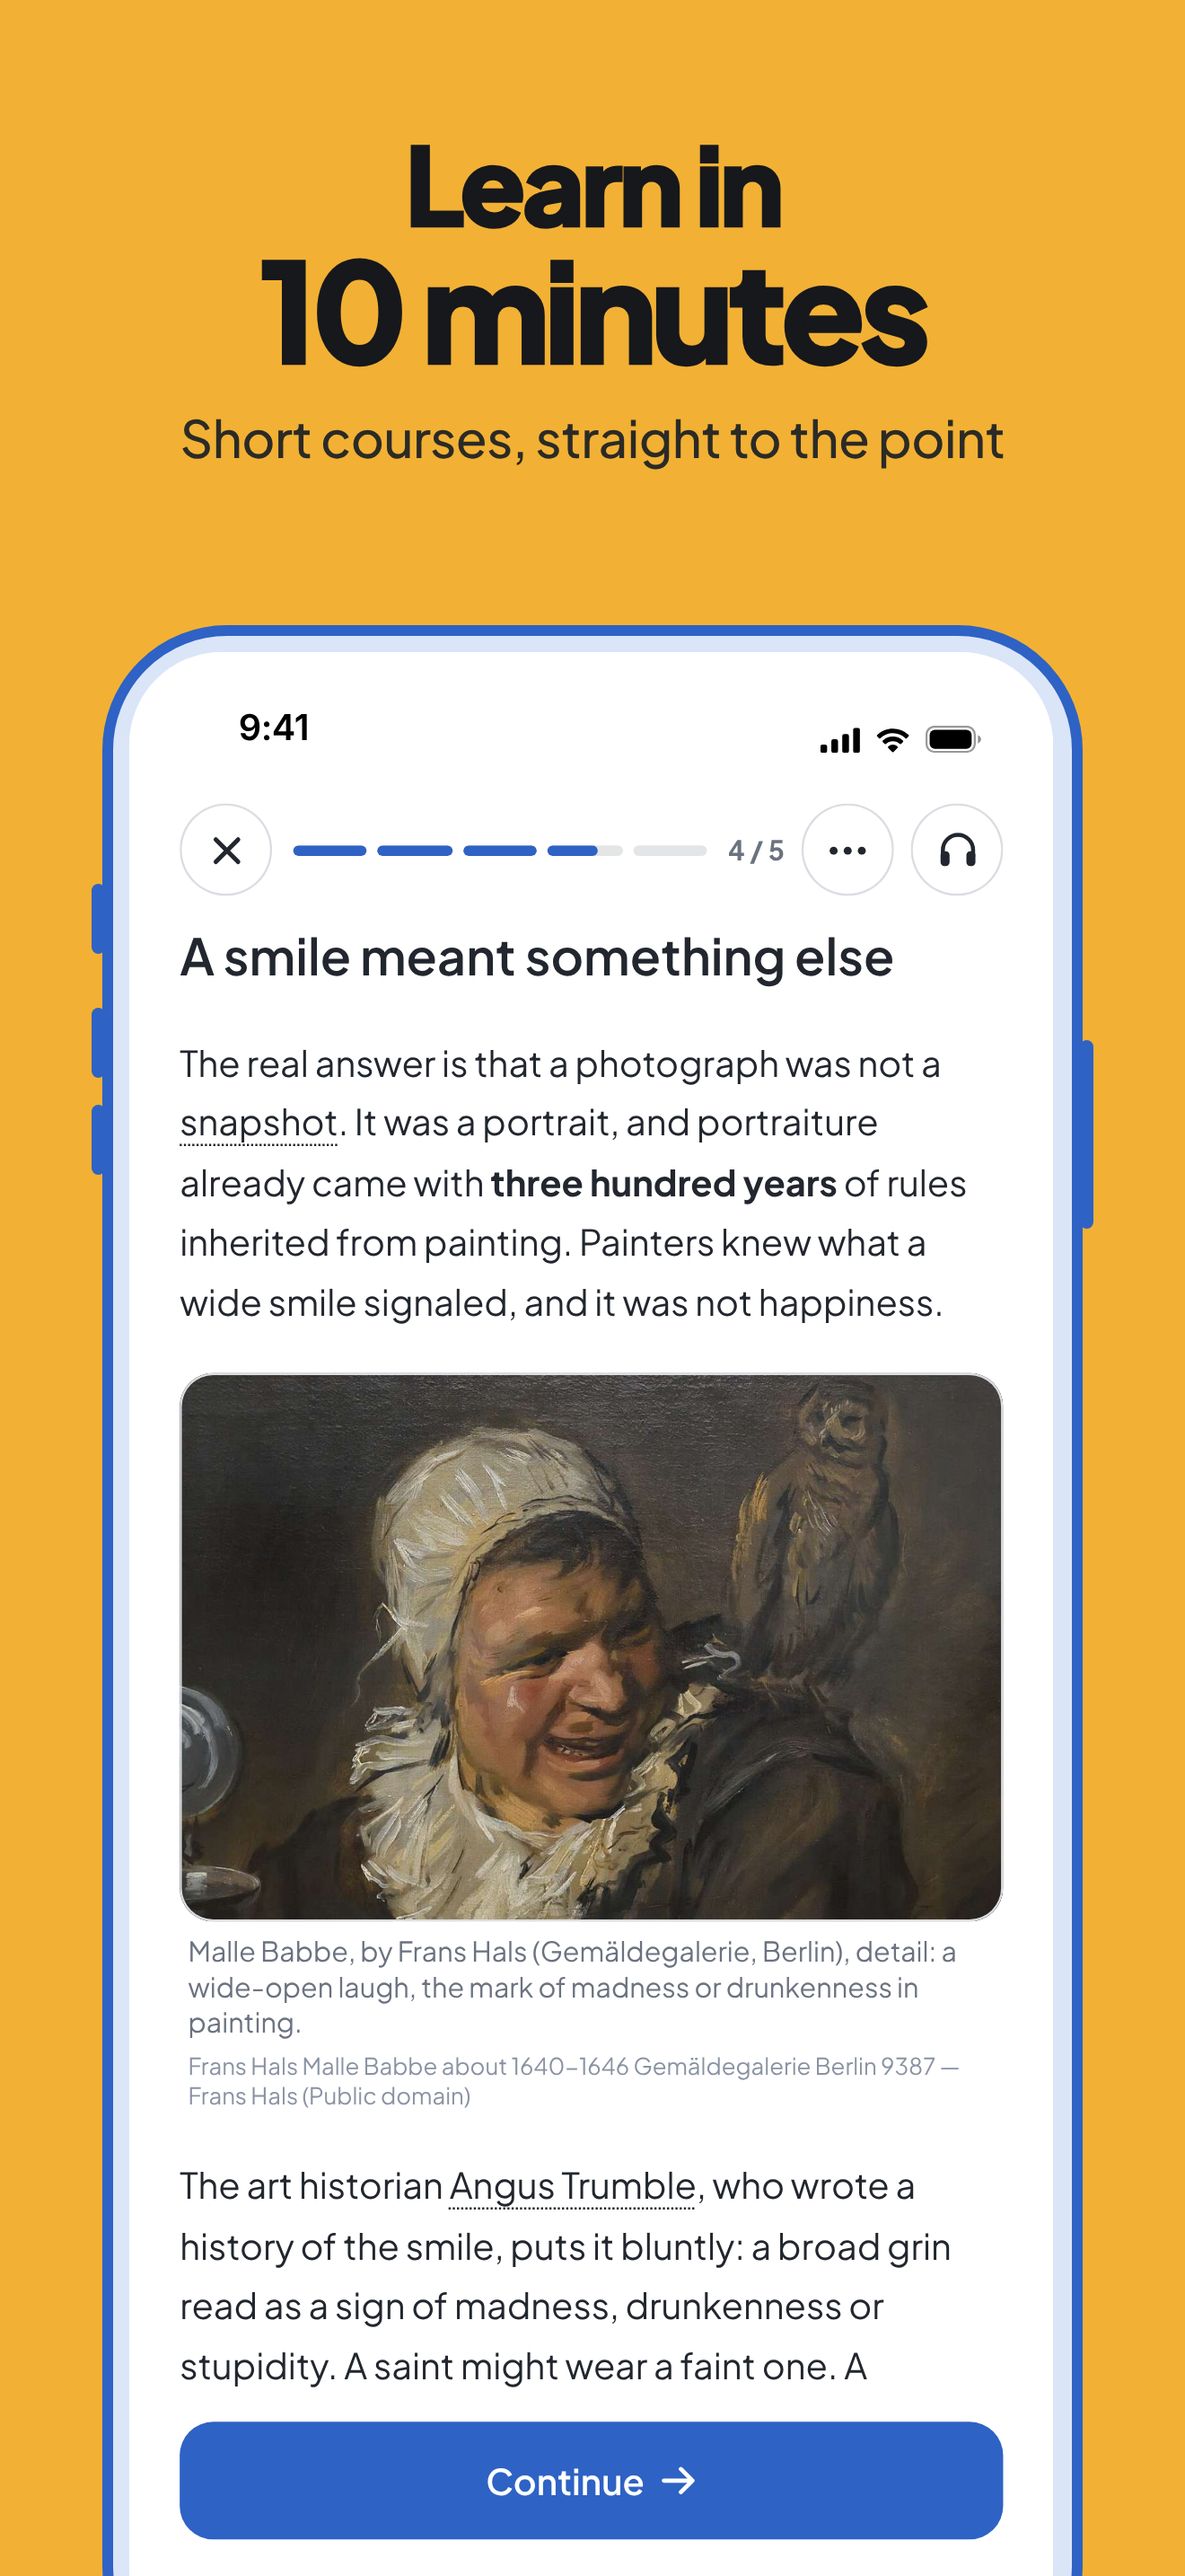
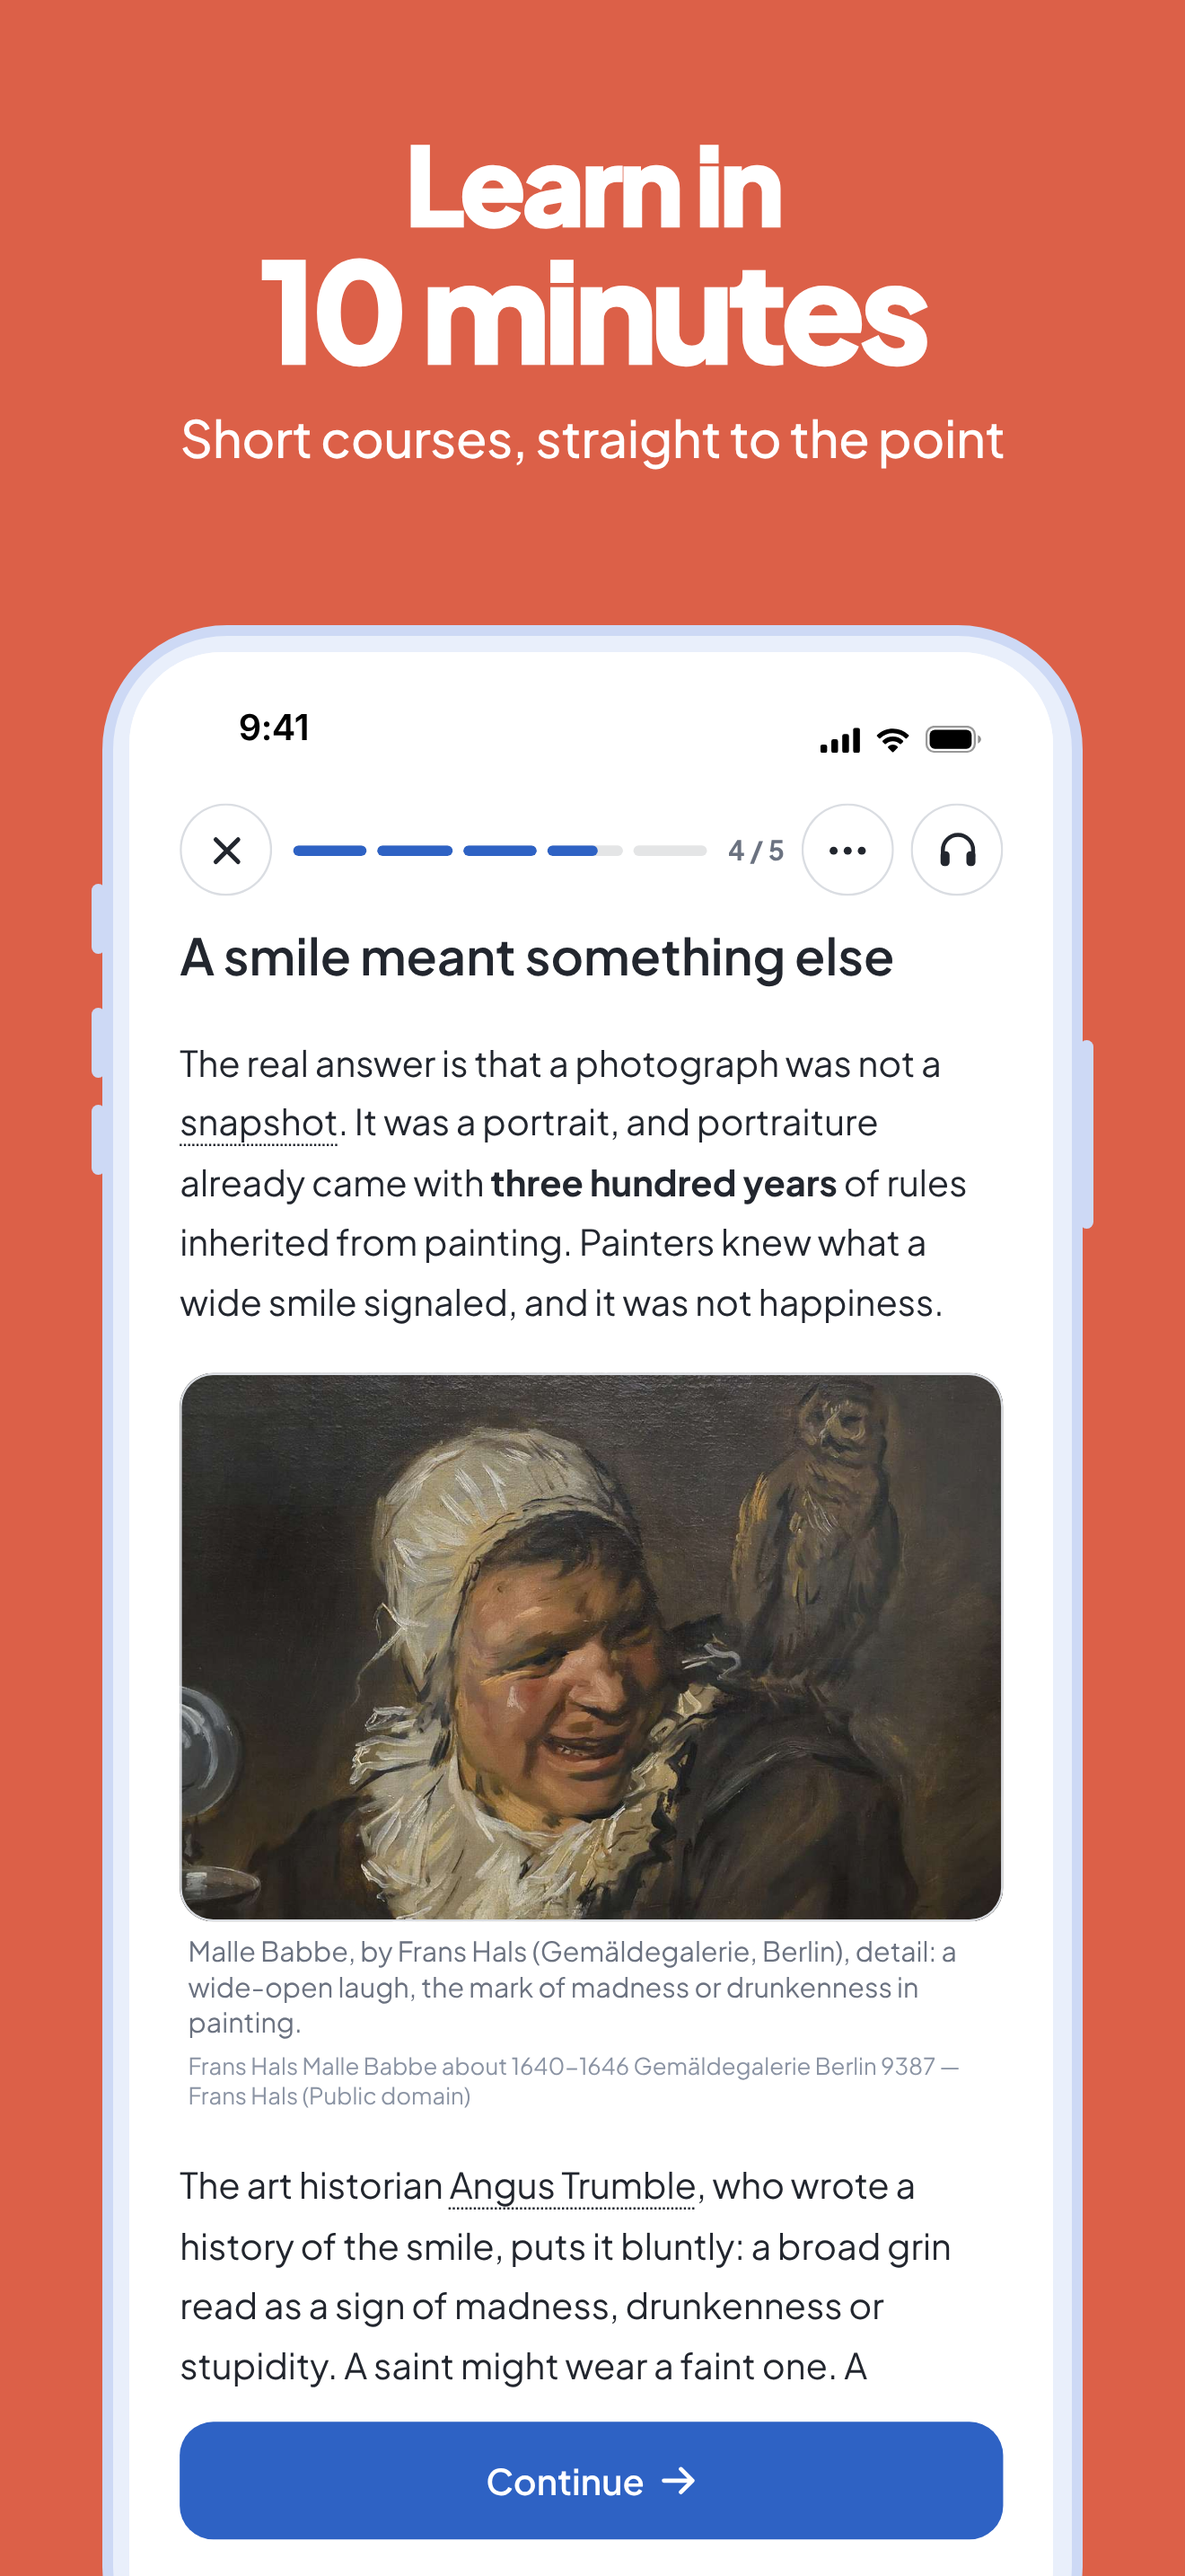
Captures App Store, showcase-bold : corail sur les panneaux 3, 6 et 8
Le panneau des duels passe en bleu pour ne pas aligner trois corails.

Claude-Session: https://claude.ai/code/session_01Yb4eBsmKHAU4mkJzSv6usd

diff --git a/appstore/screenshots/src/pano.js b/appstore/screenshots/src/pano.js
@@ -234,7 +234,7 @@ function recolour(dir, themes, hearts) {
   });
 }
 // Bold: a different strong colour on almost every panel.
-PANOS["showcase-bold"] = recolour("-showcase-bold", ["cream", "blue", "sun", "navy", "pink", "blue", "coral", "navy", "cream"], "#ffffff");
+PANOS["showcase-bold"] = recolour("-showcase-bold", ["cream", "blue", "coral", "navy", "pink", "coral", "blue", "coral", "cream"], "#ffffff");
 // Trio: cream, blue and pink in rotation.
 PANOS["showcase-trio"] = recolour("-showcase-trio", ["cream", "blue", "pink", "cream", "blue", "pink", "cream", "blue", "pink"], "#f4a3c4");
 
